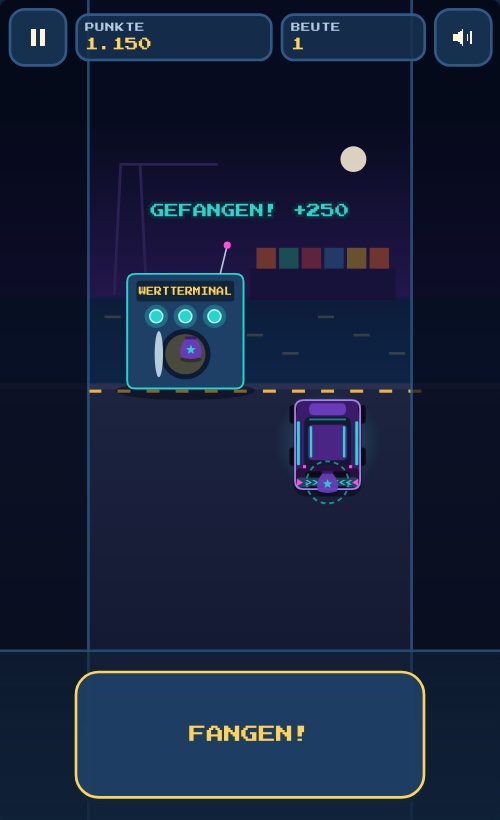
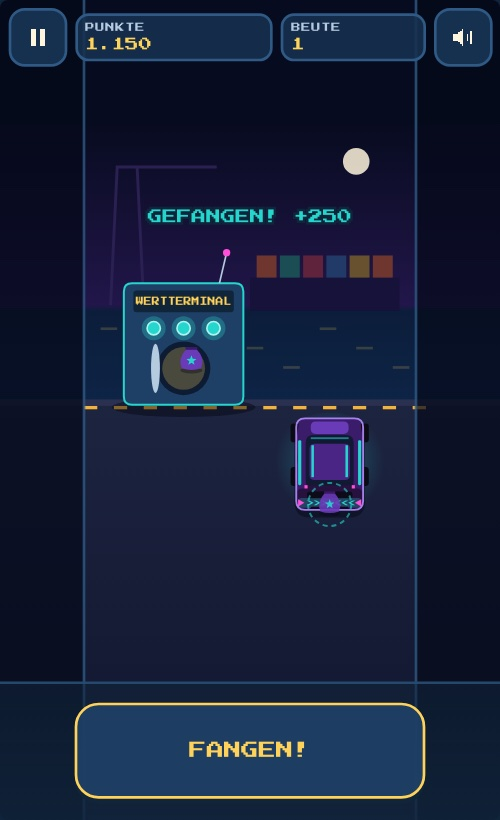
Nachtschicht: Beschreibung und Bilder mit Boostfeldern

diff --git a/index.html b/index.html
@@ -696,9 +696,9 @@ const SPIELE = [
 
   {
     titel: 'NACHTSCHICHT: HAFENBANDE',
-    beschreibung: 'Ein überzeichnetes Comic-Arcade-Spiel: Lade im Takt den Impulsschlüssel für ein erfundenes Wertterminal, fang die herausfliegenden Beutetaschen und flitz dann mit deinem violetten Kombi über die Hafenautobahn. Weiche dem Verkehr aus, nutze den Boost und schüttle die Streife ab, bis du Halle 7 erreichst. Drei Aufträge: Containerkai, Neonviertel und Nachthafen, dazu ein Training.',
-    merkmale: ['3 Aufträge', 'Timing-Coup', 'Verfolgungsfahrt', 'Boost', 'Training', 'Freunde-Rangliste', 'Retro-Sounds'],
-    steuerung: 'Handy: Finger unten auf die Steuerfläche legen und seitlich ziehen, Boost-Knopf halten, im Coup tippen. Computer: Pfeiltasten oder A und D, Leertaste für Boost und im Coup, P für Pause, M für Ton.',
+    beschreibung: 'Ein überzeichnetes Comic-Arcade-Spiel: Lade im Takt den Impulsschlüssel für ein erfundenes Wertterminal, fang die herausfliegenden Beutetaschen und flitz dann mit deinem violetten Kombi über die Hafenautobahn. Weiche dem Verkehr aus, fahr über leuchtende Pfeilfelder für einen Temposchub und schüttle die Streife ab, bis du Halle 7 erreichst. Drei Aufträge: Containerkai, Neonviertel und Nachthafen, dazu ein Training.',
+    merkmale: ['3 Aufträge', 'Timing-Coup', 'Verfolgungsfahrt', 'Boostfelder', 'Arcade-Musik', 'Training', 'Freunde-Rangliste', 'Retro-Sounds'],
+    steuerung: 'Handy: Finger unten auf die Steuerfläche legen und seitlich ziehen, im Coup tippen. Computer: Pfeiltasten oder A und D, Leertaste im Coup, P für Pause, M für Ton. Boost gibt es über Pfeilfelder auf der Straße.',
     spielen: 'https://moje9328.github.io/nachtschicht/',
     download: 'https://moje9328.github.io/nachtschicht/index.html',
     dateiname: 'nachtschicht.html',
